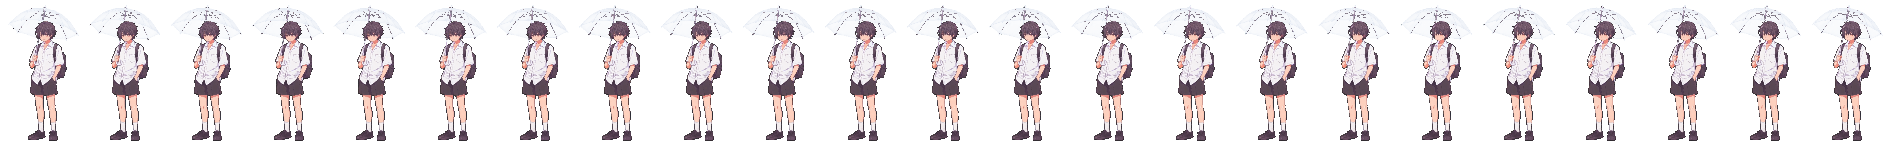
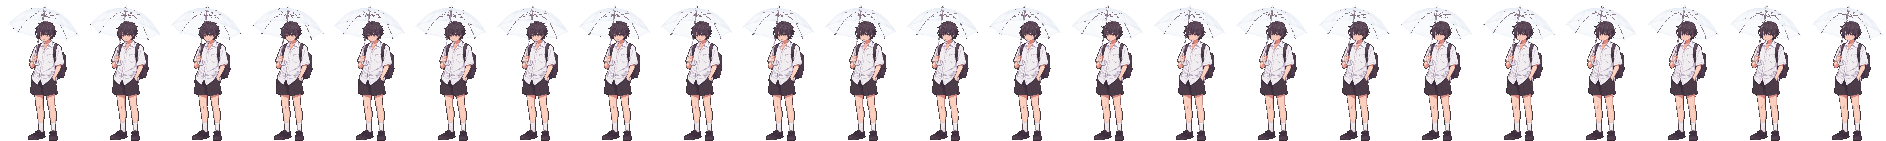
Phone and umbrella-idle sheets: same colours as the idle
Those two clips have the character small in the frame, so dark hair and shorts
came out lighter. match_sheet_colours.py lays their first frame over the idle
(same pose, silhouettes within 1px) and fits their colours to it.

Claude-Session: https://claude.ai/code/session_011NAKRUA9btL4iodwTEM3Dh

Changed region(s): [[0.492, 0.227, 0.5536, 0.2553], [0.2768, 0.227, 0.3383, 0.2553], [0.0923, 0.227, 0.123, 0.2553]]

diff --git a/tools/match_sheet_colours.py b/tools/match_sheet_colours.py
@@ -1,0 +1,74 @@
+"""Match a sheet's colours to another sheet of the same character in a similar pose.
+
+Clips where the character is small in the video frame come out lighter (dark hair and
+shorts blend with the background more), so one colour correction for all clips is not
+enough for them. This lays one frame of SRC over one frame of REF (best spot within a
+few pixels of --dx/--dy), fits one smooth colour function (quadratic in RGB) on the
+pixels both cover, dropping the 30% that differ most (where the poses differ, e.g. the
+hand holding a phone), and applies it to every frame of SRC. See-through pixels
+(alpha < 250, the clear umbrella) keep their colour.
+
+Usage:
+  python3 tools/match_sheet_colours.py SRC.png 62 0 REF.png 32 5 OUT.png --dx 9
+"""
+import argparse
+import sys
+from pathlib import Path
+
+import numpy as np
+from PIL import Image
+
+sys.path.insert(0, str(Path(__file__).resolve().parent))
+from import_idle_video import poly_terms  # noqa: E402
+
+
+def frame(path, n, i):
+    a = np.asarray(Image.open(path).convert("RGBA")).astype(float)
+    w = a.shape[1] // n
+    return a, a[:, i * w:(i + 1) * w]
+
+
+def main():
+    ap = argparse.ArgumentParser()
+    ap.add_argument("src")
+    ap.add_argument("src_frames", type=int)
+    ap.add_argument("src_frame", type=int)
+    ap.add_argument("ref")
+    ap.add_argument("ref_frames", type=int)
+    ap.add_argument("ref_frame", type=int)
+    ap.add_argument("out")
+    ap.add_argument("--dx", type=int, default=0, help="SRC's x minus REF's x for the same body part")
+    ap.add_argument("--dy", type=int, default=0, help="the same for y, with both sheets' feet on the bottom row")
+    args = ap.parse_args()
+
+    sheet, s = frame(args.src, args.src_frames, args.src_frame)
+    _, r = frame(args.ref, args.ref_frames, args.ref_frame)
+    best = None
+    for dy in range(args.dy - 2, args.dy + 3):
+        for dx in range(args.dx - 3, args.dx + 4):
+            # pixel (y, x) of REF <-> (y + oy, x + dx) of SRC, feet rows lined up
+            oy = s.shape[0] - r.shape[0] + dy
+            ys = np.arange(r.shape[0])[:, None] + oy
+            xs = np.arange(r.shape[1])[None, :] + dx
+            ok = (ys >= 0) & (ys < s.shape[0]) & (xs >= 0) & (xs < s.shape[1])
+            sv = np.zeros_like(r)
+            sv[ok] = s[np.clip(ys, 0, s.shape[0] - 1), np.clip(xs, 0, s.shape[1] - 1)][ok]
+            both = (sv[..., 3] >= 250) & (r[..., 3] >= 250)
+            err = np.abs(sv[..., :3] - r[..., :3])[both].mean() + 80 * (1 - both.sum() / max(1, (r[..., 3] >= 250).sum()))
+            if best is None or err < best[0]:
+                best = (err, sv, both, dx, dy)
+    _, sv, both, dx, dy = best
+    src, dst = sv[..., :3][both], r[..., :3][both]
+    keep = np.ones(len(src), bool)
+    for _ in range(4):
+        coef, *_ = np.linalg.lstsq(poly_terms(src[keep]), dst[keep], rcond=None)
+        res = np.abs(poly_terms(src) @ coef - dst).sum(1)
+        keep = res < np.percentile(res, 70)
+    op = sheet[..., 3] >= 250
+    sheet[..., :3][op] = np.clip(poly_terms(sheet[..., :3][op]) @ coef, 0, 255)
+    Image.fromarray(sheet.round().astype(np.uint8), "RGBA").save(args.out)
+    print(f"laid at dx={dx} dy={dy}; {both.sum()} pixels; written {args.out}")
+
+
+if __name__ == "__main__":
+    main()

diff --git a/README.md b/README.md
@@ -152,6 +152,8 @@ python3 tools/import_char_video.py art_source/hero2_umbrella_walk.mp4 uwalk_raw.
 python3 tools/apply_colour_fit.py idle_raw.png assets/characters/hero_idle_video.png \
     walk_raw.png assets/characters/hero_walk.png phone_raw.png assets/characters/hero_phone.png \
     uidle_raw.png assets/characters/hero_umbrella_idle.png uwalk_raw.png assets/characters/hero_umbrella_walk.png
+python3 tools/match_sheet_colours.py phone_raw.png 62 0 assets/characters/hero_idle_video.png 32 5 assets/characters/hero_phone.png --dx 9
+python3 tools/match_sheet_colours.py uidle_raw.png 23 0 assets/characters/hero_idle_video.png 32 5 assets/characters/hero_umbrella_idle.png --dx 28
 python3 tools/steady_walk_head.py assets/characters/hero_walk.png --frames 18 --measure 6 60 --cut 82 96 \
     --bob 1 1 1 0 0 0 -1 -1 -1 0 1 1 0 -1 -1 -1 0 0
 python3 tools/steady_walk_head.py assets/characters/hero_umbrella_walk.png --frames 15 --measure 28 80 --cut 94 108 \
@@ -163,6 +165,8 @@ python3 tools/steady_walk_head.py assets/characters/hero_umbrella_walk.png --fra
 - `--head-scale`: ในคลิปเดิน/ถือร่ม AI วาดหัวใหญ่กว่าคลิปยืน (หัว:ตัว 0.29 / 0.28 vs 0.25) จึงย่อหัวเข้าหาคอ
 - สี: ท่ายืนเทียบกับภาพนิ่งแบบวางทับ (ฟังก์ชันสีเดียว) แล้ว `apply_colour_fit.py` หาฟังก์ชันที่เปลี่ยนท่ายืนดิบเป็นท่ายืนที่ปรับแล้ว (พิกเซลต่อพิกเซล)
   ใช้ฟังก์ชันเดียวกันกับทุกคลิป (สีดิบของ 5 คลิปตรงกันอยู่แล้ว: เสื้อ ผิว ผม ต่างกันไม่กี่ระดับ) ทุกท่าจึงสีเดียวกัน
+- คลิปโทรศัพท์และยืนถือร่ม ตัวละครเล็กในเฟรมวิดีโอ ผม/กางเกงผสมกับพื้นหลังมากกว่า จึงสีอ่อนกว่า: `match_sheet_colours.py` วางเฟรมแรกทับท่ายืน
+  (ท่าเดียวกัน วัดเงาซ้อนแล้วขนาดต่างไม่เกิน 1px) แล้วหาฟังก์ชันสีให้ตรงกับท่ายืนอีกชั้น (ตัด 30% ที่ต่างกันที่สุด เช่น มือถือโทรศัพท์)
 - ผมดำ: ตัวหาผมใน `import_char_video.py` รับผมดำได้แล้ว (เดิมหาเฉพาะผมน้ำตาล)
 - `hero_walker.gd`: ความเร็ว 54 (เท้าเลื่อน ~4.5px/เฟรม), ถือร่ม 60 (~5px/เฟรม), หยิบโทรศัพท์ 22 เฟรม เริ่มจากท่ายืนเฟรม 5
 
